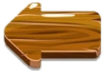
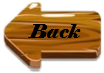
Fixing some errors

Changed region(s): [[0.2596, 0.3288, 0.7788, 0.5205], [0.2885, 0.9589, 0.4038, 0.9863]]

diff --git a/sketch.js b/sketch.js
@@ -40,33 +40,14 @@ class BasicCoordinates {
 
 //Extension class responsible for clickable buttons
 class Button extends BasicCoordinates {
-  constructor(x, y, width, height, clickableText, textSize, textColor, clickable) {
+  constructor(x, y, width, height, clickable) {
     super(x, y, width, height);
-    this.clickableText = clickableText;
-    this.textColor = textColor;
-    this.textSize = textSize;
     this.clickable = clickable;
   }
 
   //function to call to use buttons previously created
   run() {
-    this.checkMouse();
-
-    fill(this.textColor);
-    strokeWeight(1);
-    textSize(this.textSize);
-    text(this.buttonText, this.x + this.width / 2, this.y + this.height / 2);
-
-    if(this.mouse && mouseIsPressed && !mouse) {
-      mouseToggle = 1;
-      this.clickedOn();
-    }
-
-    fill(this.textColor);
-    strokeWeight(1);
-    textSize(this.textSize);
-    text(this.clickable, this.x + this.width / 2, this.y + this.height / 2);
-
+    this.mouseCheck();
     if(this.mouse && mouseIsPressed && !mouse) {
       mouseToggle = 1;
       this.clickable();
@@ -77,11 +58,13 @@ class Button extends BasicCoordinates {
 function setup() {
   createCanvas(windowWidth, windowHeight);
   createButtons();
+  Button.run();
   // terrain = buildingTerrain(20000); // code that builds the terrain
 }
 
 function draw() {
   showCursor();
+  
   // if (state === "main") {
   //   mainScreen();
   background(bgImage, width, height);
@@ -147,9 +130,9 @@ function showCursor() {
 }
 
 function createButtons() {
-   playButton = new Button (width * 0.35, height * (7/24), width * 0.3, height / 8, width / 55, 0, PLAY GAME, "assets/buttons.png");
-   settingsButton = new Button (width * 0.55, height * (10/24), width * 0.3, height / 8, width / 55, 0, SETTINGS, "assets/buttons.png");
-   inventoryButton = new Button (width * 0.35, height * (13/24), width * 0.3, height / 8, width / 55, 0, INVENTORY, "assets/buttons.png");
+  let playButton = new Button(width * 0.9, height * 0.1, width * 0.06, height * 0.06, settings, "assets/play.png");
+  let settingsButton = new Button(width * 0.9, height * 0.1, width * 0.06, height * 0.06, playTheGame, "assets/settings.png");
+  let inventoryButton = new Button(width * 0.9, height * 0.1, width * 0.06, height * 0.06, inventory, "assets/inventory.png");
 }
 
 // drawing a terrain that would work as a background for the game
@@ -227,7 +210,6 @@ function allPressableButtons() {
 
 function playTheGame() {
   state = "game";
-
 }
 
 function mainMenu() {
